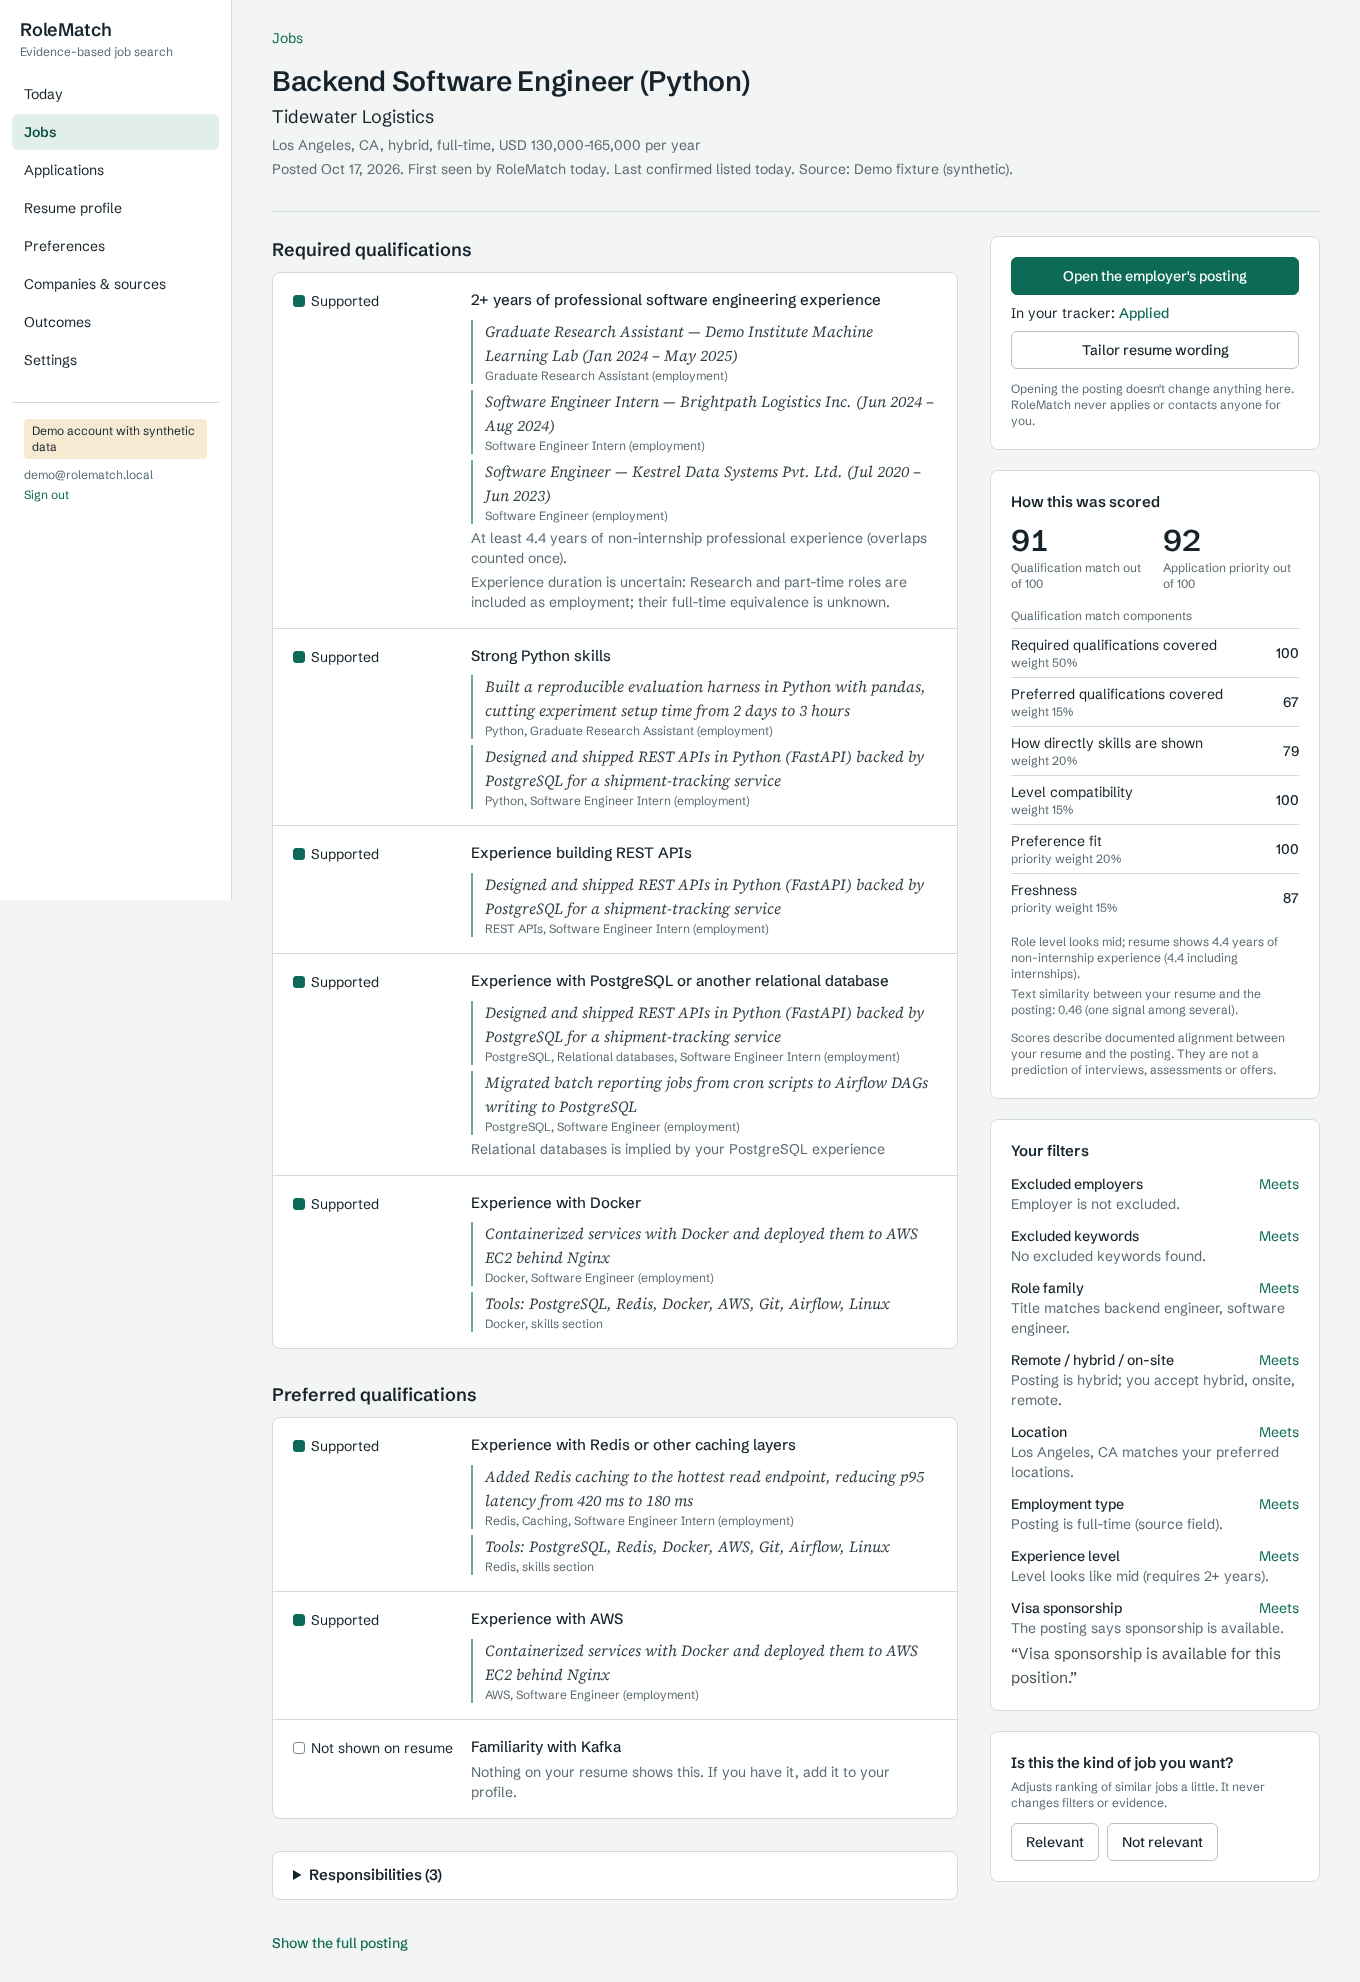
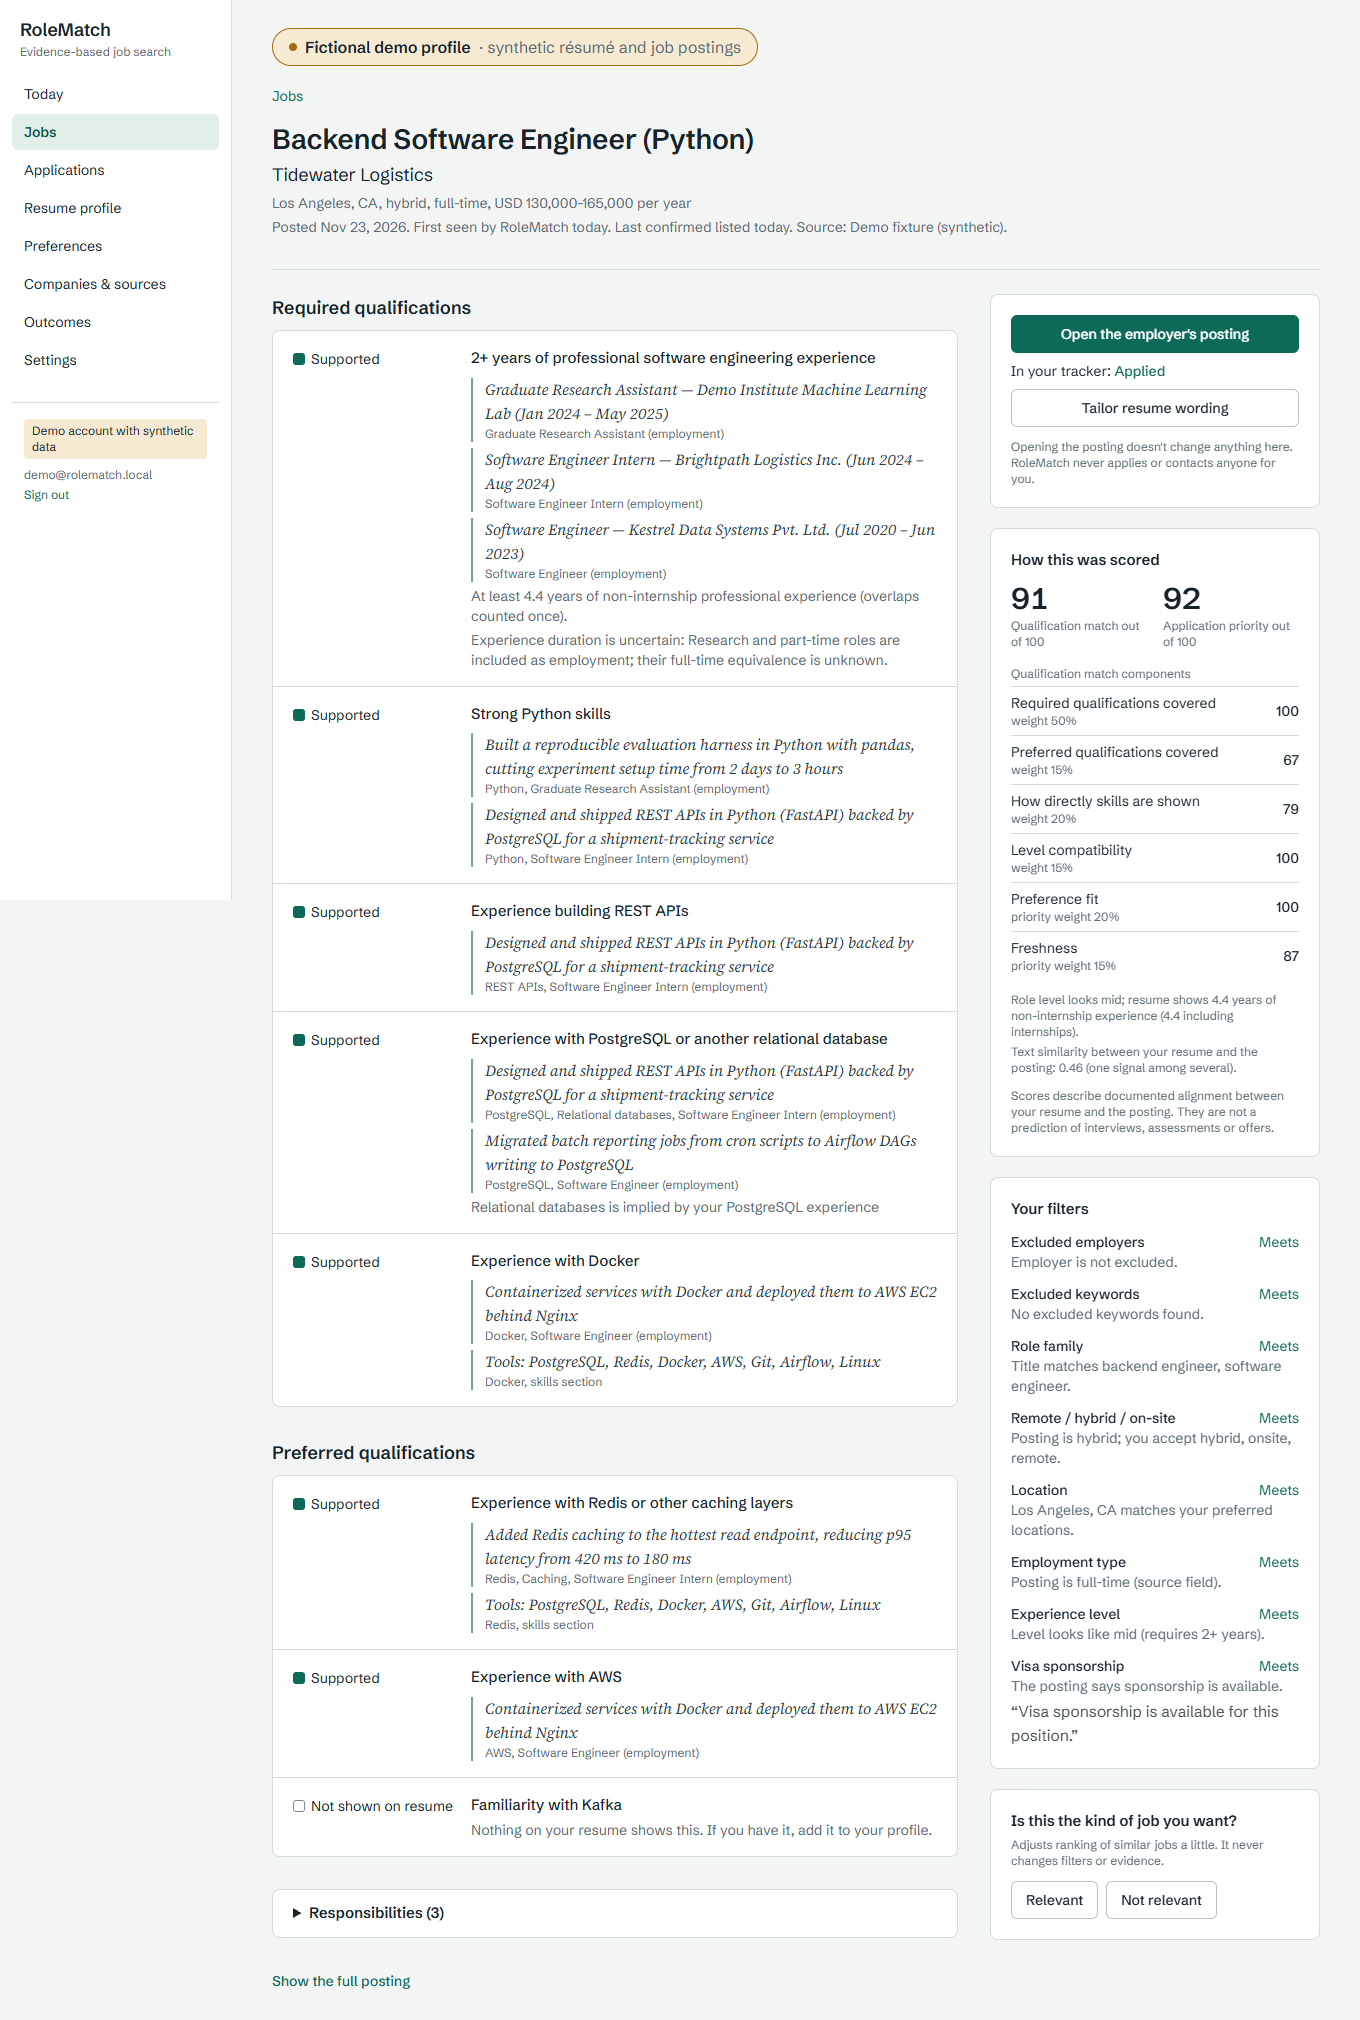
Label the demo account as a fictional profile in every page
A visible "Fictional demo profile" note sits above each page's content for the
demo account, so screenshots and demos can't be mistaken for real candidate data.
Refreshed docs/screenshots/04-job-evidence.png from the running Docker stack.

diff --git a/frontend/components/shell.tsx b/frontend/components/shell.tsx
@@ -97,7 +97,16 @@ export function Shell({ children }: { children: ReactNode }) {
           </nav>
         </aside>
         <main id="main" className="min-w-0 px-5 py-7 sm:px-8 lg:px-10">
-          <div className="mx-auto max-w-6xl">{children}</div>
+          <div className="mx-auto max-w-6xl">
+            {user.is_demo && (
+              <p role="note" className="mb-5 inline-flex flex-wrap items-center gap-x-2 gap-y-0.5 rounded-full border border-partial bg-partial-wash px-4 py-1.5 text-base">
+                <span aria-hidden className="inline-block h-2 w-2 rounded-full bg-partial" />
+                <strong className="font-semibold text-ink">Fictional demo profile</strong>
+                <span className="text-muted">· synthetic résumé and job postings</span>
+              </p>
+            )}
+            {children}
+          </div>
         </main>
       </div>
     </UserCtx.Provider>
